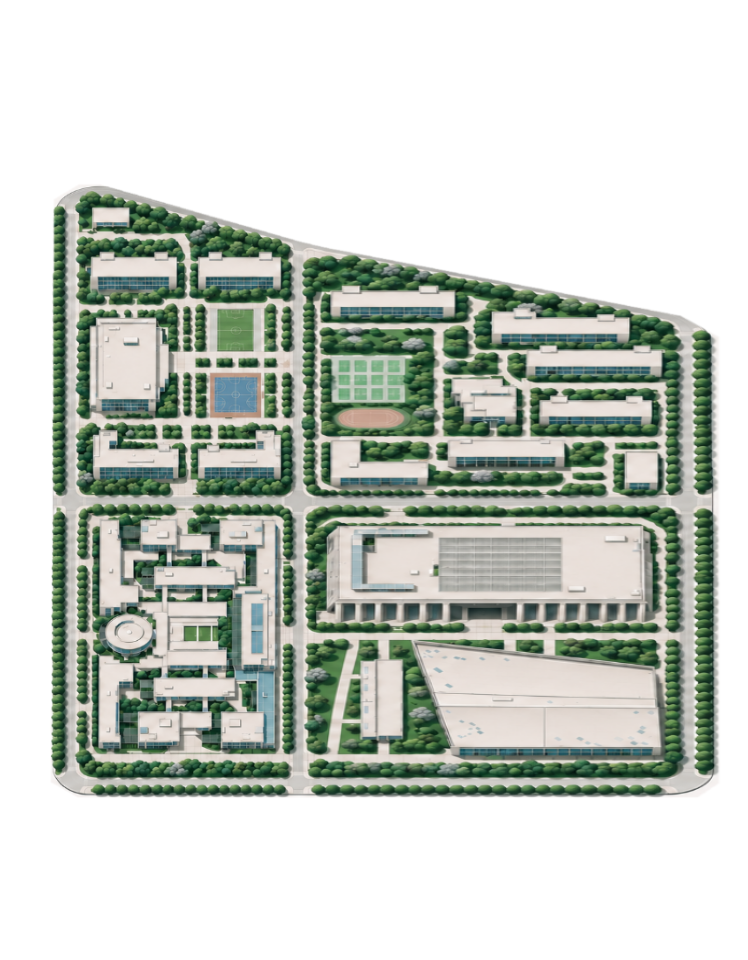
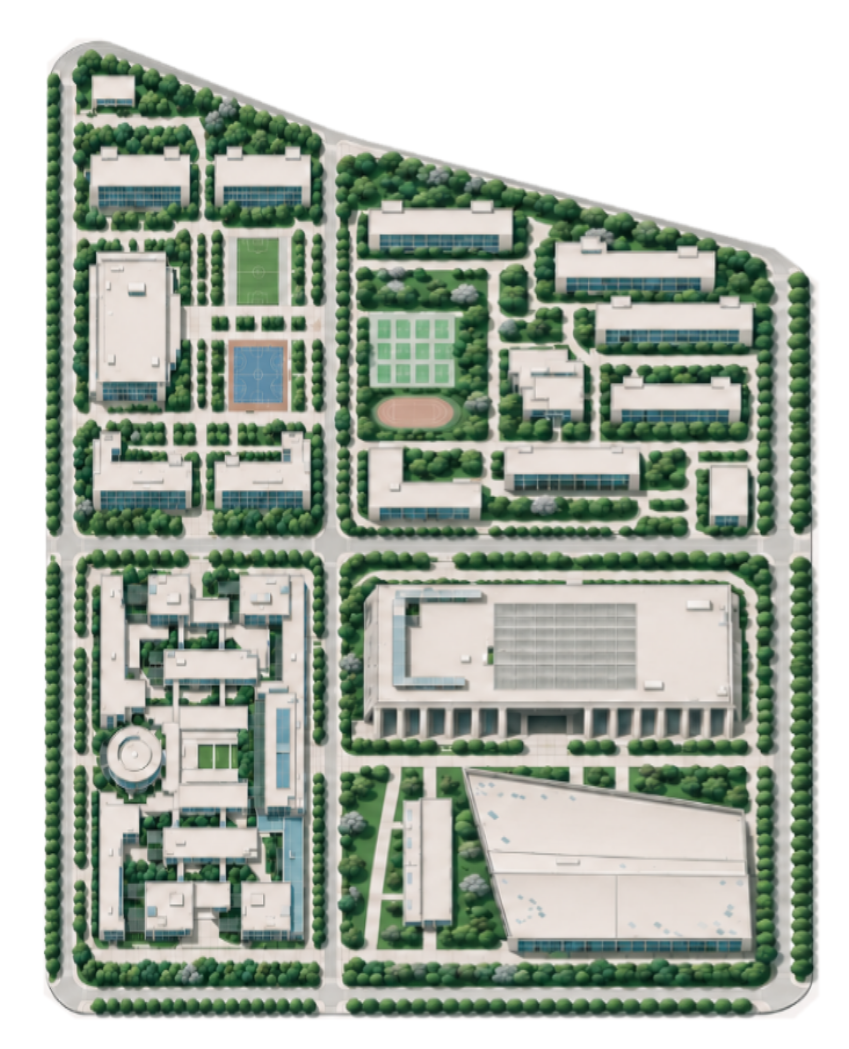
fix: recalibrate east/south campus artwork against satellite truth (scale 0.862x/0.625y)

diff --git a/android-app/app/src/main/java/com/bitse/geotreasure/core/map/CampusArtwork.kt b/android-app/app/src/main/java/com/bitse/geotreasure/core/map/CampusArtwork.kt
@@ -11,6 +11,10 @@ import org.json.JSONObject
  * 运行时用的 PNG 已被重采样为「正北向上、东西南北同尺 1.5px/m」，
  * 因此每张图可精确对应一个经纬度矩形，直接交给高德 GroundOverlay。
  *
+ * v2 追加：以东/南区实机反馈「比例尺与真图不符、覆盖不全」为线索，改用卫星影像
+ * （ArcGIS World Imagery）做真值校验，实测东/南两区插画被竖向压缩至 0.625、横向 0.862，
+ * 已按实测仿射重采样并重算 bounds（北区实测与真图一致，保持原样）。
+ *
  * 坐标系：config.json 的 south/west/north/east 已由 WGS-84 换算为 GCJ-02，
  * 与高德地图、地标目录 (LiangxiangTreasureCatalog) 保持一致。
  */
